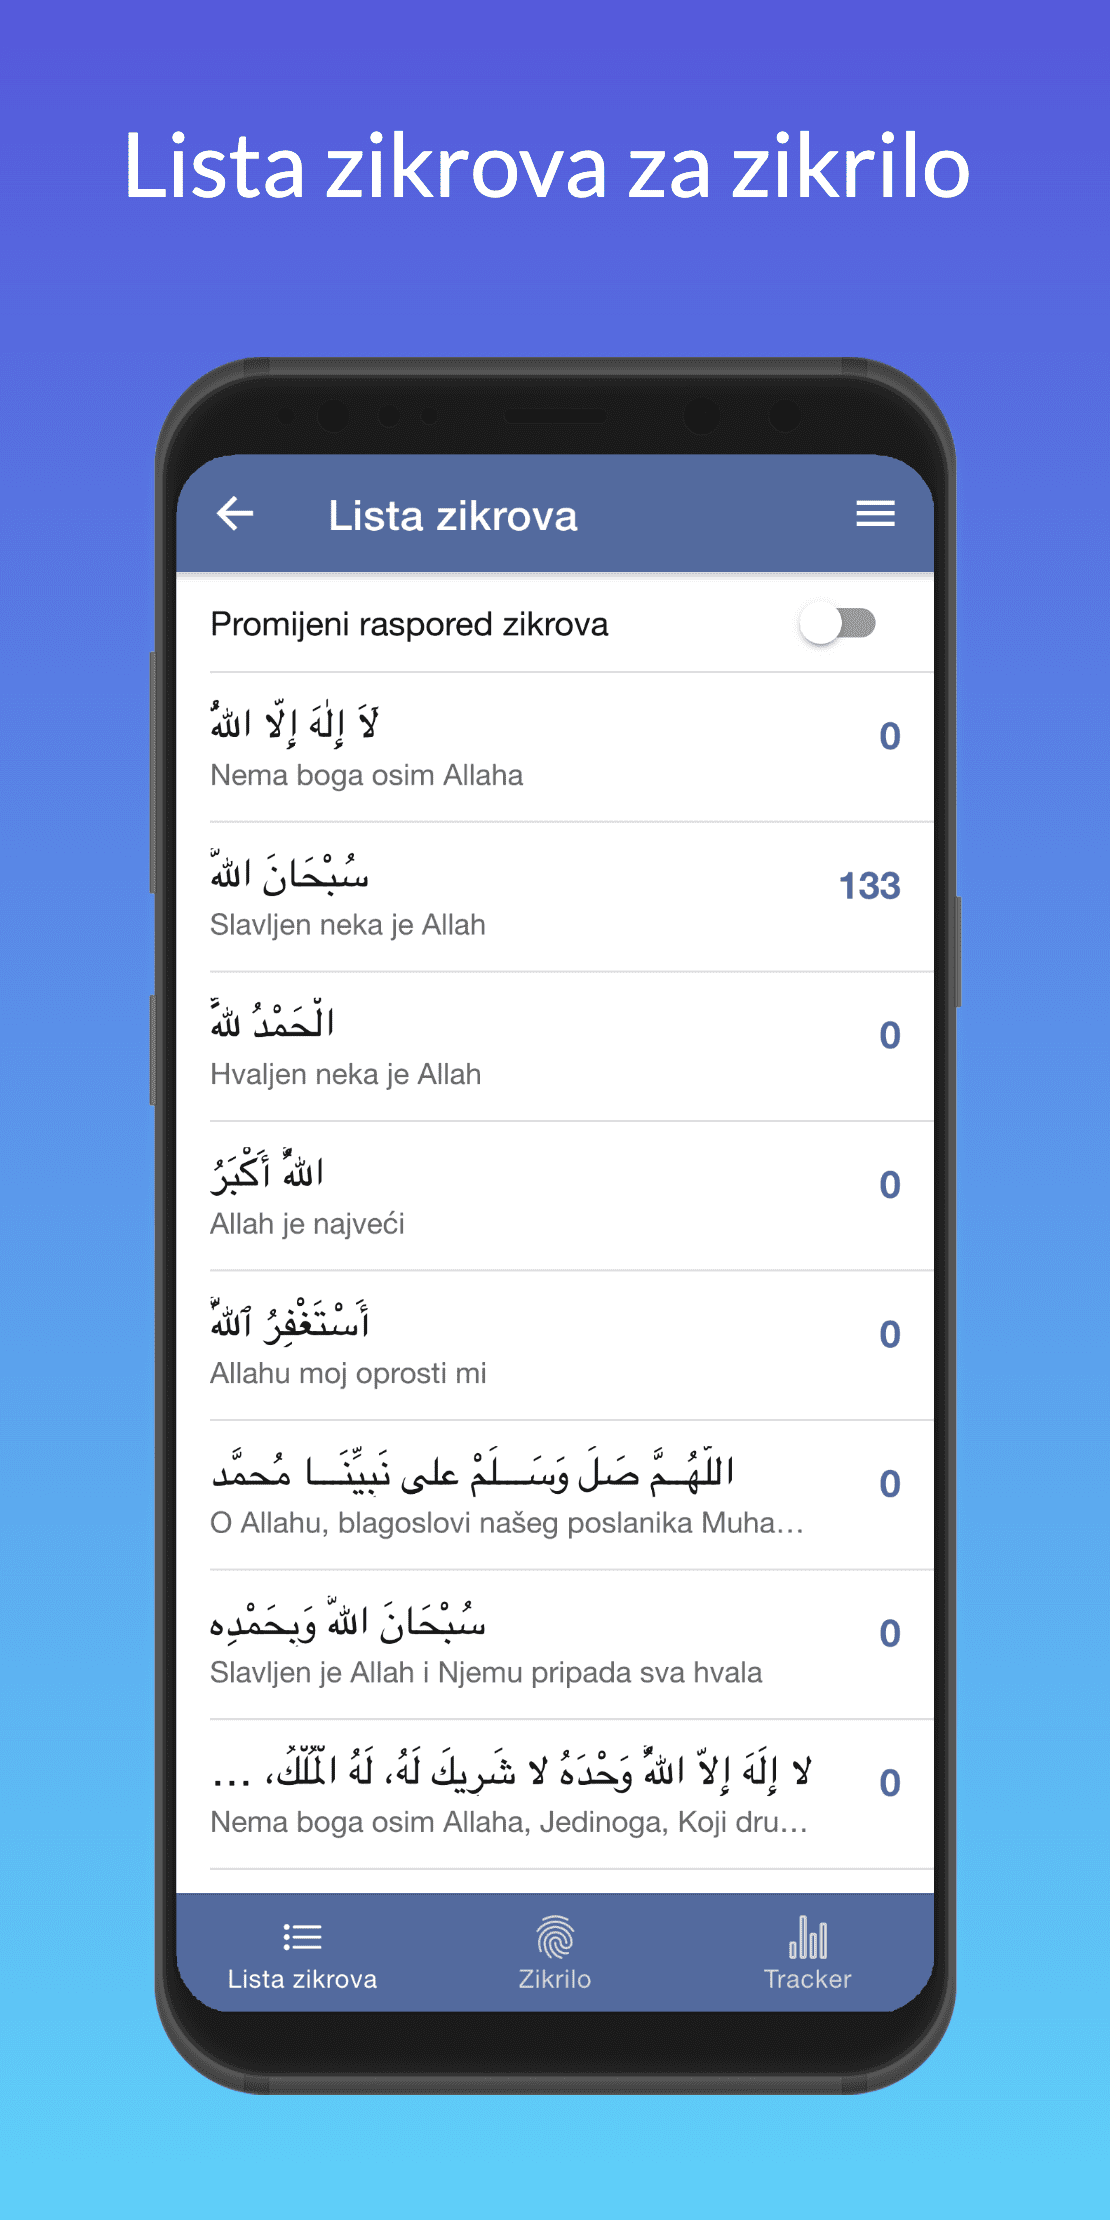
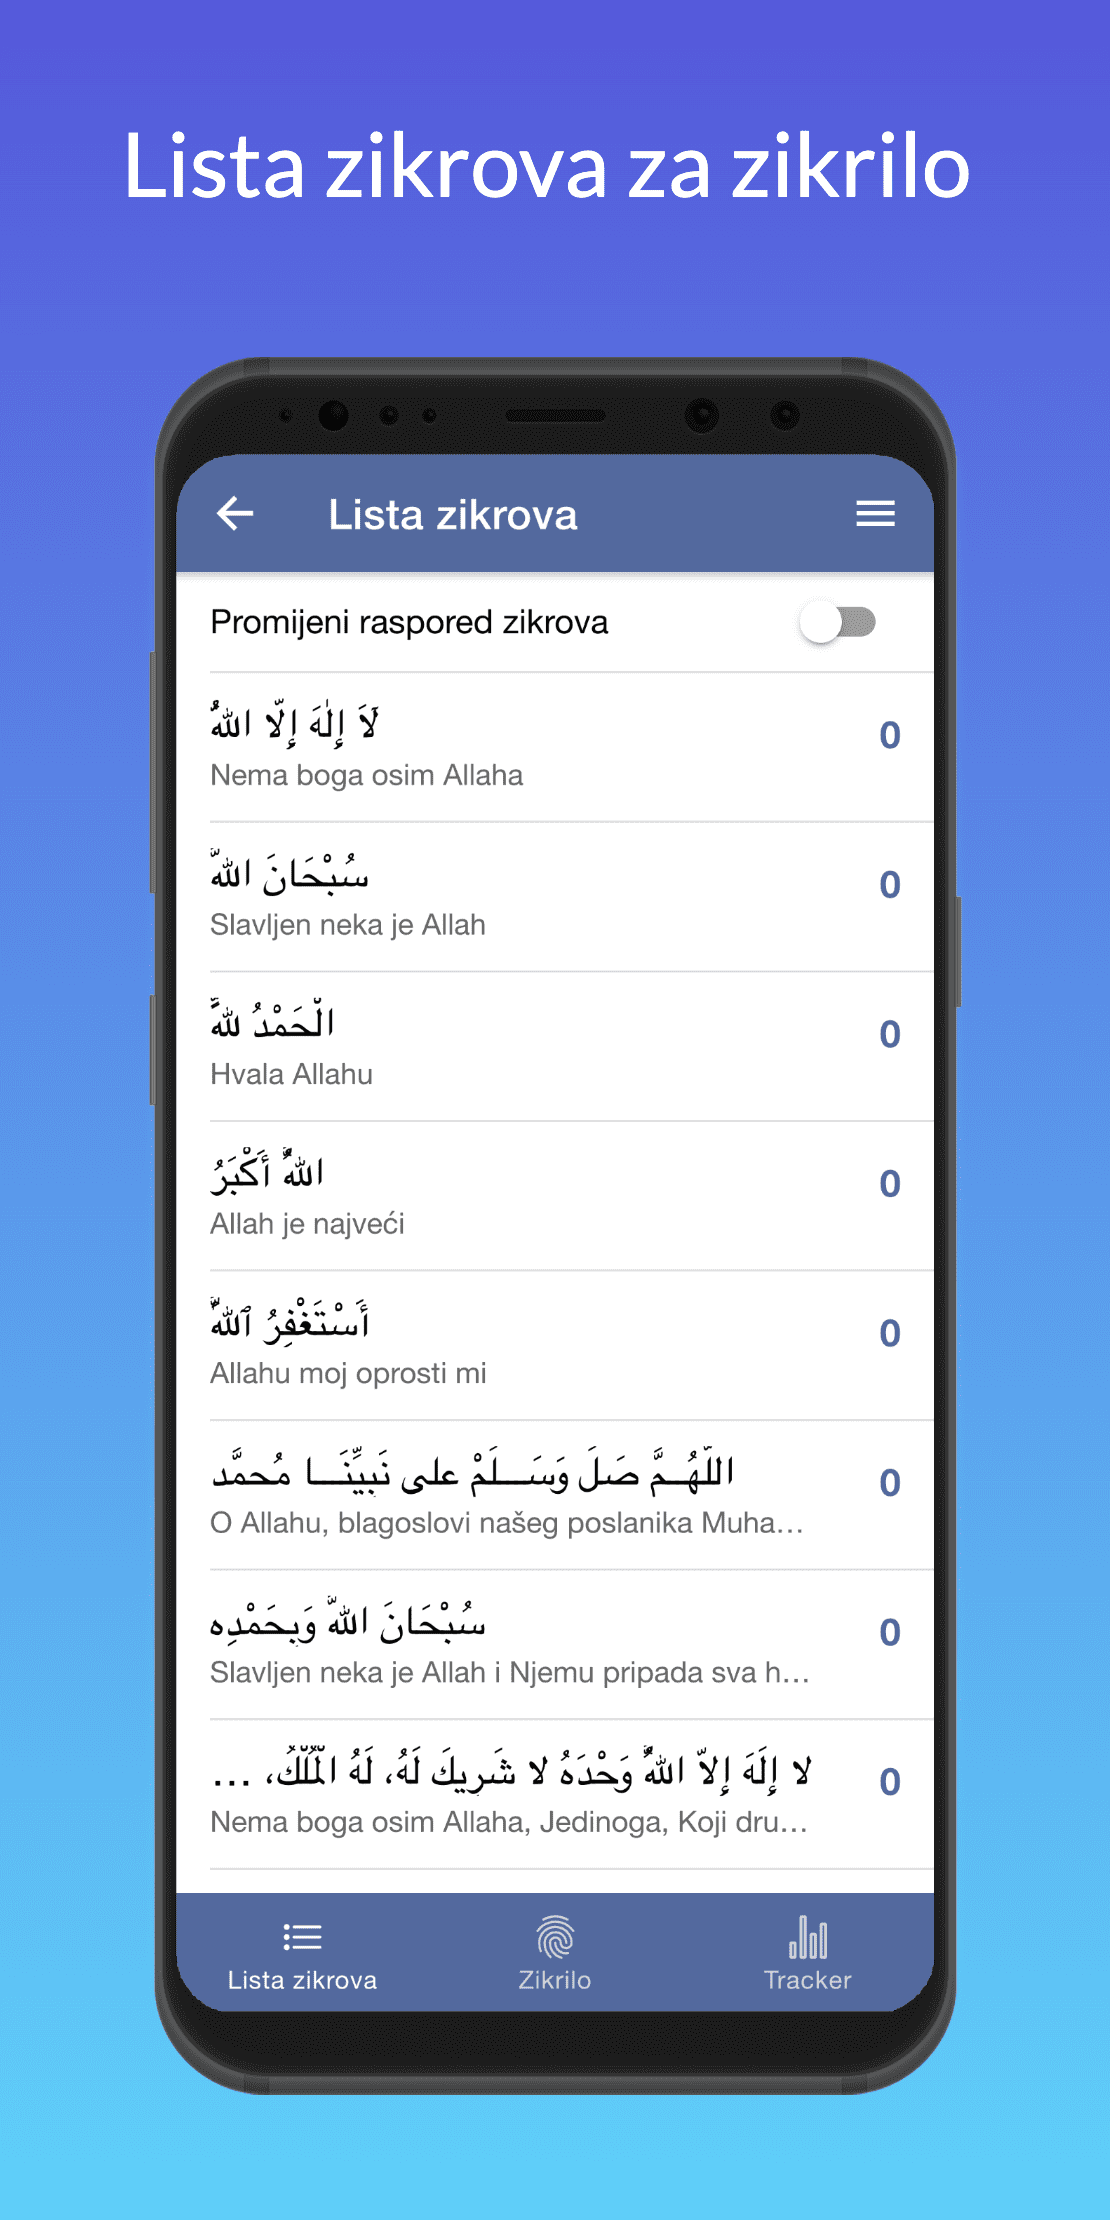
.

diff --git a/src/app/dhikr/evening-dhikr/evening-dhikr.page.html b/src/app/dhikr/evening-dhikr/evening-dhikr.page.html
@@ -27,7 +27,7 @@
       <p>Ako iskreno i sa ubjeđenjem proučimo sljedeće zikrove imat ćemo mnogo nagrada od kojih su:</p>
       <ul>
         <li>Ako se vratimo Gospodaru u toku noći (prije nego osvanemo) obećan nam je ulazak u Džennet</li>
-        <li>Zaštita od uroka, zavidnosti, sihra, džinnskog opsjedanja, straha, nesanice</li>
+        <li>Zaštita od uroka, zavidnosti, sihra, džinskog opsjedanja</li>
         <li>Spas od svih nesreća</li>
         <li>Otklanjanje briga dunjaluka i ahireta</li>
         <li>Oprost grijeha pa makar ih bilo poput morske pjene</li>

diff --git a/src/app/dhikr/morning-dhikr/morning-dhikr.page.html b/src/app/dhikr/morning-dhikr/morning-dhikr.page.html
@@ -26,7 +26,7 @@
       <p>Ako iskreno i sa ubjeđenjem proučimo sljedeće zikrove imat ćemo mnogo nagrada od kojih su:</p>
       <ul>
         <li>Ako se vratimo Gospodaru u toku dana (prije nego omrknemo) obećan nam je ulazak u Džennet</li>
-        <li>Zaštita od uroka, zavidnosti, sihra, džinnskog opsjedanja, straha, nesanice</li>
+        <li>Zaštita od uroka, zavidnosti, sihra, džinskog opsjedanja</li>
         <li>Spas od svih nesreća</li>
         <li>Otklanjanje briga dunjaluka i ahireta</li>
         <li>Oprost grijeha pa makar ih bilo poput morske pjene</li>

diff --git a/src/app/dhikr/tasbeeh/tasbeeh.service.ts b/src/app/dhikr/tasbeeh/tasbeeh.service.ts
@@ -42,7 +42,7 @@ export class TasbeehService {
     },
     {
       arabic: 'سُبْحَانَ اللَّهِ وَبِحَمْدِه',
-      bosnian: 'Slavljen je Allah i Njemu pripada sva hvala',
+      bosnian: 'Slavljen neka je Allah i Njemu pripada sva hvala',
       counter: 0,
       favorite: false,
     },
